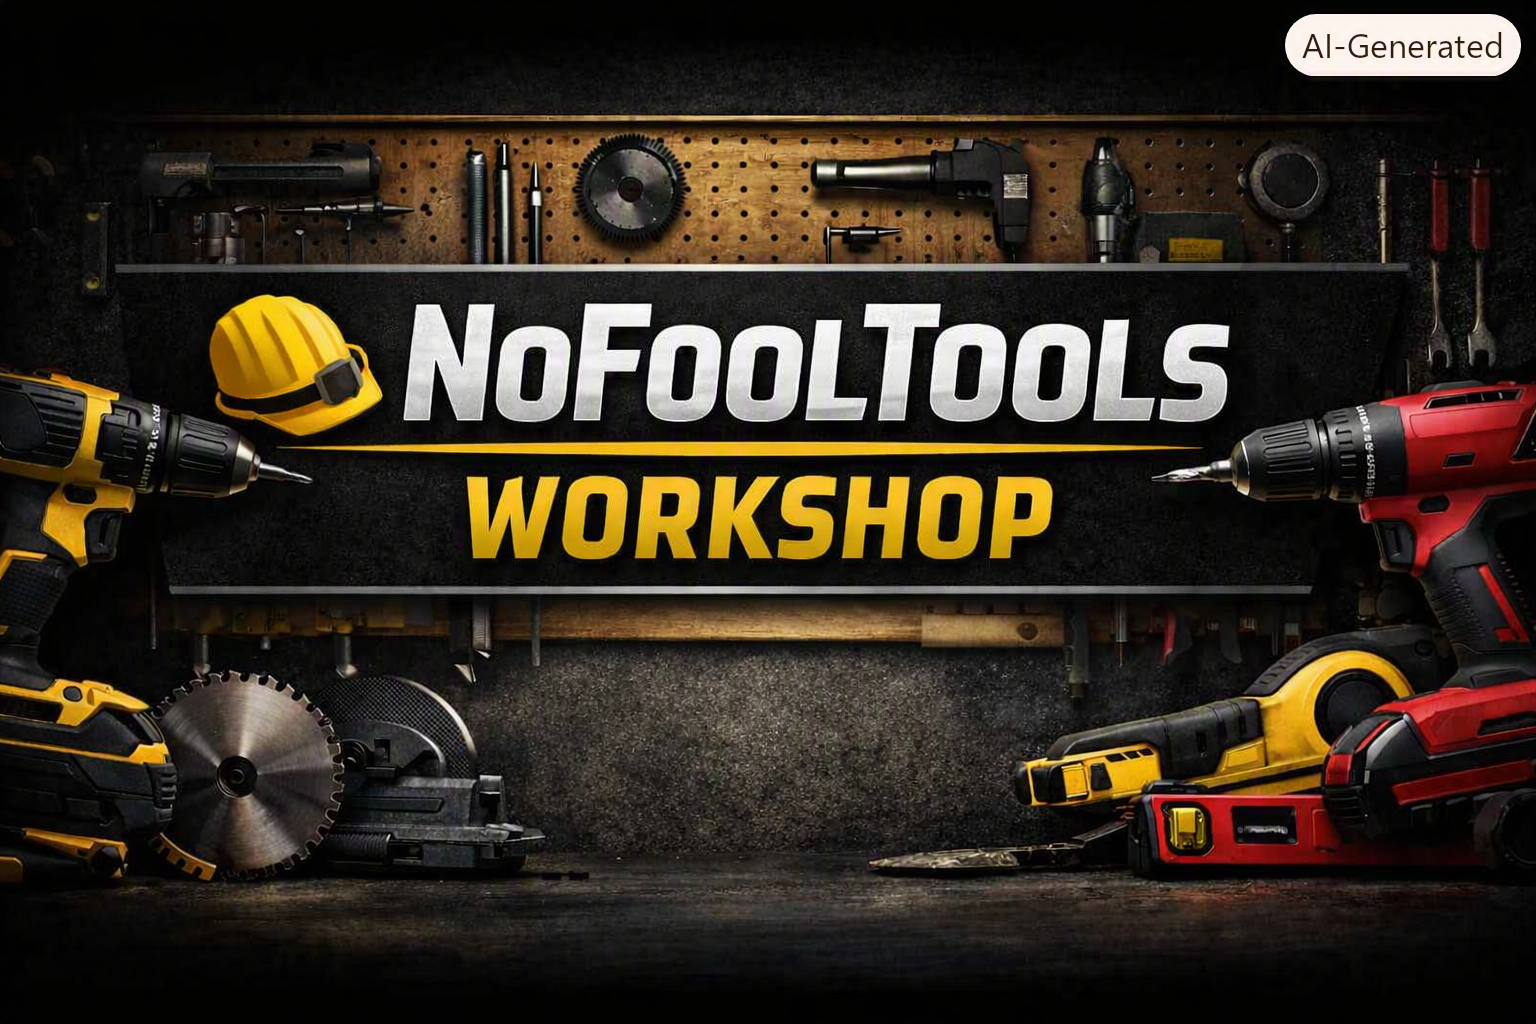
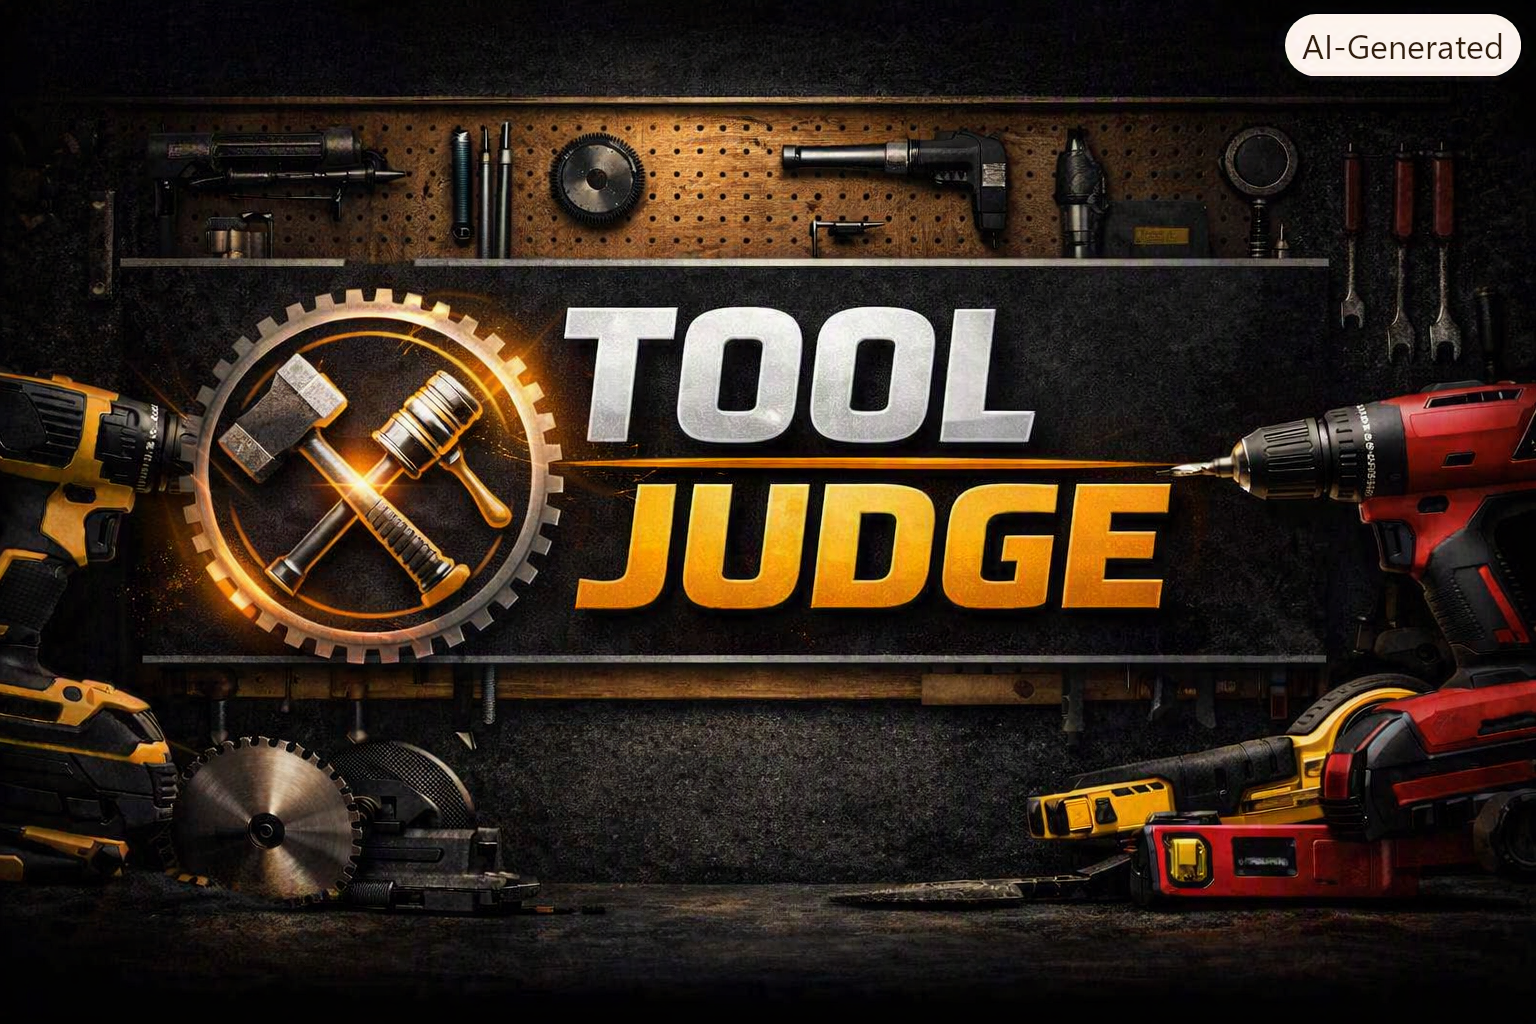
test

diff --git a/app/templates/public/affiliate.html b/app/templates/public/affiliate.html
@@ -5,23 +5,23 @@
     <h1 class="fw-bold mb-4">Amazon Affiliate Disclosure</h1>
 
     <p class="lead">
-        NoFoolTools participates in the Amazon Associates Program, an affiliate advertising program designed to provide a means for sites to earn advertising fees by linking to Amazon.
+        ToolJudge participates in the Amazon Associates Program, an affiliate advertising program designed to provide a means for sites to earn advertising fees by linking to Amazon.
     </p>
 
     <hr class="my-4">
 
     <h3 class="fw-bold mt-4">What This Means</h3>
     <p>
-        Some of the links on NoFoolTools are “affiliate links.” This means that if you click a link to a product and make a purchase, we may earn a small commission — at no extra cost to you.
+        Some of the links on ToolJudge are “affiliate links.” This means that if you click a link to a product and make a purchase, we may earn a small commission — at no extra cost to you.
     </p>
     <p>
-        These commissions help support the ongoing development of NoFoolTools, including tool testing, content creation, hosting costs, and improvements to the platform.
+        These commissions help support the ongoing development of ToolJudge, including tool testing, content creation, hosting costs, and improvements to the platform.
     </p>
 
     <h3 class="fw-bold mt-4">Our Commitment to Transparency</h3>
     <p>
         We only recommend tools, equipment, and products that we genuinely believe offer good value, strong performance, and reliability for tradespeople and DIY users.
-        Affiliate partnerships do not influence our reviews, comparisons, or buying guides — all opinions on NoFoolTools are based on real‑world performance, technical specifications, and honest evaluation.
+        Affiliate partnerships do not influence our reviews, comparisons, or buying guides — all opinions on ToolJudge are based on real‑world performance, technical specifications, and honest evaluation.
     </p>
 
     <h3 class="fw-bold mt-4">No Extra Cost to You</h3>
@@ -31,7 +31,7 @@
 
     <h3 class="fw-bold mt-4">Why We Use Affiliate Links</h3>
     <ul>
-        <li>To keep NoFoolTools free to use</li>
+        <li>To keep ToolJudge free to use</li>
         <li>To fund ongoing tool testing and content creation</li>
         <li>To support hosting, development, and maintenance costs</li>
         <li>To allow us to continue producing unbiased, high‑quality tool reviews</li>

diff --git a/app/templates/public/base.html b/app/templates/public/base.html
@@ -5,7 +5,7 @@
     <meta name="viewport" content="width=device-width, initial-scale=1">
 
     <!-- SEO Title -->
-    <title>{{ seo_title if seo_title else title if title else "NoFoolTools" }}</title>
+    <title>{{ seo_title if seo_title else title if title else "ToolJudge" }}</title>
 
     <!-- SEO Meta Tags -->
     <meta name="description"
@@ -47,7 +47,7 @@
     <nav class="navbar navbar-expand-lg navbar-dark bg-dark mb-4 rounded">
         <div class="container-fluid">
 
-            <a class="navbar-brand fw-bold" href="/">NoFoolTools</a>
+            <a class="navbar-brand fw-bold" href="/">ToolJudge</a>
 
             <button class="navbar-toggler" type="button" data-bs-toggle="collapse" data-bs-target="#mainNav">
                 <span class="navbar-toggler-icon"></span>
@@ -78,7 +78,7 @@
     <!-- FOOTER -->
     <footer class="bg-dark text-white text-center py-4 mt-5 rounded">
 
-        <p class="mb-1 fw-bold">NoFoolTools</p>
+        <p class="mb-1 fw-bold">ToolJudge</p>
         <p class="small text-muted">Honest tool reviews, buying guides & DIY projects — No fluff.</p>
 
         <!-- Footer Links -->
@@ -99,7 +99,7 @@
             <a href="#" class="text-white"><i class="bi bi-twitter"></i></a>
         </div>
 
-        <p class="small text-muted mt-3">NoFoolTools — All Rights Reserved</p>
+        <p class="small text-muted mt-3">ToolJudge — All Rights Reserved</p>
     </footer>
 
     <script src="https://cdn.jsdelivr.net/npm/bootstrap@5.3.0/dist/js/bootstrap.bundle.min.js"></script>

diff --git a/app/templates/public/terms.html b/app/templates/public/terms.html
@@ -5,22 +5,22 @@
     <h1 class="fw-bold mb-4">Terms & Conditions</h1>
 
     <p class="lead">
-        By using NoFoolTools, you agree to the following terms and conditions.
+        By using ToolJudge, you agree to the following terms and conditions.
     </p>
 
     <h3 class="fw-bold mt-4">Use of Content</h3>
     <p>
-        All content on NoFoolTools is provided for informational purposes only. We do not guarantee accuracy, completeness, or suitability for any specific purpose.
+        All content on ToolJudge is provided for informational purposes only. We do not guarantee accuracy, completeness, or suitability for any specific purpose.
     </p>
 
     <h3 class="fw-bold mt-4">Affiliate Links</h3>
     <p>
-        NoFoolTools participates in the Amazon Associates Programme. We may earn commissions from qualifying purchases.
+        ToolJudge participates in the Amazon Associates Programme. We may earn commissions from qualifying purchases.
     </p>
 
     <h3 class="fw-bold mt-4">Limitation of Liability</h3>
     <p>
-        NoFoolTools is not responsible for any damages, losses, or injuries resulting from the use of tools, equipment, or advice provided on this site.
+        ToolJudge is not responsible for any damages, losses, or injuries resulting from the use of tools, equipment, or advice provided on this site.
     </p>
 
     <h3 class="fw-bold mt-4">External Links</h3>

diff --git a/app/templates/public/about.html b/app/templates/public/about.html
@@ -2,10 +2,10 @@
 {% block content %}
 
 <div class="container my-5">
-    <h1 class="fw-bold mb-4">About NoFoolTools</h1>
+    <h1 class="fw-bold mb-4">About ToolJudge</h1>
 
     <p class="lead">
-        NoFoolTools is a straight‑talking tool review and DIY guidance platform built for tradespeople, homeowners, and anyone who wants honest, practical advice about tools and hardware — no fluff, no nonsense.
+        ToolJudge is a straight‑talking tool review and DIY guidance platform built for tradespeople, homeowners, and anyone who wants honest, practical advice about tools and hardware — no fluff, no nonsense.
     </p>
 
     <p>
@@ -23,7 +23,7 @@
 
     <h3 class="fw-bold mt-4">Our Approach</h3>
     <p>
-        NoFoolTools uses AI‑assisted analysis to evaluate tools based on specifications, performance, ergonomics, durability, and real user feedback. All recommendations are independent — affiliate partnerships never influence our opinions or scoring.
+        ToolJudge uses AI‑assisted analysis to evaluate tools based on specifications, performance, ergonomics, durability, and real user feedback. All recommendations are independent — affiliate partnerships never influence our opinions or scoring.
     </p>
 
     <h3 class="fw-bold mt-4">Our Goal</h3>

diff --git a/app/templates/public/contact.html b/app/templates/public/contact.html
@@ -2,14 +2,14 @@
 {% block content %}
 
 <div class="container my-5">
-    <h1 class="fw-bold mb-4">Contact NoFoolTools</h1>
+    <h1 class="fw-bold mb-4">Contact ToolJudge</h1>
 
     <p class="lead">
         Got a question, suggestion, or business enquiry? We’d love to hear from you — no fluff, no nonsense.
     </p>
 
     <h3 class="fw-bold mt-4">General Enquiries</h3>
-    <p>Email: <strong>support@nofooltools.com</strong></p>
+    <p>Email: <strong>support@ToolJudge.com</strong></p>
 
     <h3 class="fw-bold mt-4">Feedback & Corrections</h3>
     <p>
@@ -17,7 +17,7 @@
     </p>
 
     <h3 class="fw-bold mt-4">Business & Partnership Enquiries</h3>
-    <p>Email: <strong>partners@nofooltools.com</strong></p>
+    <p>Email: <strong>partners@ToolJudge.com</strong></p>
 
     <h3 class="fw-bold mt-4">Response Time</h3>
     <p>

diff --git a/app/templates/public/privacy.html b/app/templates/public/privacy.html
@@ -24,7 +24,7 @@
 
     <h3 class="fw-bold mt-4">Cookies</h3>
     <p>
-        NoFoolTools uses cookies for analytics and basic site functionality. You can disable cookies in your browser settings at any time.
+        ToolJudge uses cookies for analytics and basic site functionality. You can disable cookies in your browser settings at any time.
     </p>
 
     <h3 class="fw-bold mt-4">Third-Party Services</h3>
@@ -46,7 +46,7 @@
     </ul>
 
     <h3 class="fw-bold mt-4">Contact</h3>
-    <p>Email: <strong>privacy@nofooltools.com</strong></p>
+    <p>Email: <strong>privacy@ToolJudge.com</strong></p>
 
     <p class="mt-4 text-muted">Last updated: {{ year }}</p>
 </div>

diff --git a/app/templates/public/article.html b/app/templates/public/article.html
@@ -100,7 +100,7 @@
 {% if article.affiliate_link %}
 <div class="affiliate-box premium-affiliate-box">
     <h5 class="fw-bold">Recommended Purchase</h5>
-    <p>Get the best price for this tool using our trusted affiliate link below — NoFoolTools only recommends products we genuinely rate.</p>
+    <p>Get the best price for this tool using our trusted affiliate link below — ToolJudge only recommends products we genuinely rate.</p>
     <a href="{{ article.affiliate_link }}" 
        class="btn btn-warning btn-lg premium-cta-btn"
        target="_blank"

diff --git a/app/templates/admin/layout.html b/app/templates/admin/layout.html
@@ -3,7 +3,7 @@
 <head>
     <meta charset="UTF-8">
     <meta name="viewport" content="width=device-width, initial-scale=1">
-    <title>{{ title if title else "Admin – NoFoolTools" }}</title>
+    <title>{{ title if title else "Admin – ToolJudge" }}</title>
 
     <link rel="stylesheet" href="https://cdn.jsdelivr.net/npm/bootstrap@5.3.0/dist/css/bootstrap.min.css">
 

diff --git a/app/templates/public/search.html b/app/templates/public/search.html
@@ -9,7 +9,7 @@
 
 {% if results|length == 0 %}
     <div class="alert alert-warning">
-        No results found. Try another search — NoFoolTools is always expanding, so check back soon.
+        No results found. Try another search — ToolJudge is always expanding, so check back soon.
     </div>
 {% else %}
     <div class="row g-4">

diff --git a/app/templates/public/cookies.html b/app/templates/public/cookies.html
@@ -5,7 +5,7 @@
     <h1 class="fw-bold mb-4">Cookie Policy</h1>
 
     <p class="lead">
-        This Cookie Policy explains how NoFoolTools uses cookies and similar technologies.
+        This Cookie Policy explains how ToolJudge uses cookies and similar technologies.
     </p>
 
     <h3 class="fw-bold mt-4">What Are Cookies?</h3>

diff --git a/app/templates/public/index.html b/app/templates/public/index.html
@@ -12,7 +12,7 @@
 
 <!-- HERO SECTION -->
 <div class="hero text-center mb-5">
-    <h1 class="fw-bold">NoFoolTools</h1>
+    <h1 class="fw-bold">ToolJudge</h1>
     <p class="lead mt-3">
         Honest tool reviews, buying guides, comparisons and DIY advice — no fluff, no nonsense.
     </p>

diff --git a/app/routes/public.py b/app/routes/public.py
@@ -21,8 +21,8 @@ def index():
         categories=categories,
         articles=articles,
         featured_articles=featured_articles,
-        title="NoFoolTools — Honest Tool Reviews & Guides",
-        seo_title="NoFoolTools — Honest Tool Reviews & Guides",
+        title="ToolJudge — Honest Tool Reviews & Guides",
+        seo_title="ToolJudge — Honest Tool Reviews & Guides",
         seo_description="Honest tool reviews, comparisons, buying guides and DIY projects — no fluff, no nonsense.",
         seo_keywords="tool reviews, power tools, DIY guides, buying guides, honest reviews"
     )
@@ -92,8 +92,8 @@ def category_page(slug):
     articles = pagination.items
 
     seo_title = f"{category.name} — Reviews & Buying Guides"
-    seo_description = f"Explore honest reviews, comparisons and buying guides for {category.name.lower()} — powered by NoFoolTools."
-    seo_keywords = f"{category.slug}, {category.name}, tool reviews, DIY guides, NoFoolTools"
+    seo_description = f"Explore honest reviews, comparisons and buying guides for {category.name.lower()} — powered by ToolJudge."
+    seo_keywords = f"{category.slug}, {category.name}, tool reviews, DIY guides, ToolJudge"
 
     return render_template(
         "public/category.html",
@@ -114,20 +114,20 @@ def category_page(slug):
 def about():
     return render_template(
         "public/about.html",
-        title="About NoFoolTools",
-        seo_title="About NoFoolTools",
-        seo_description="Learn about NoFoolTools — honest tool reviews, comparisons and DIY guides.",
-        seo_keywords="about nofooltools"
+        title="About ToolJudge",
+        seo_title="About ToolJudge",
+        seo_description="Learn about ToolJudge — honest tool reviews, comparisons and DIY guides.",
+        seo_keywords="about ToolJudge"
     )
 
 @public_bp.route("/contact")
 def contact():
     return render_template(
         "public/contact.html",
-        title="Contact NoFoolTools",
-        seo_title="Contact NoFoolTools",
-        seo_description="Get in touch with NoFoolTools for enquiries, feedback or partnership opportunities.",
-        seo_keywords="contact nofooltools"
+        title="Contact ToolJudge",
+        seo_title="Contact ToolJudge",
+        seo_description="Get in touch with ToolJudge for enquiries, feedback or partnership opportunities.",
+        seo_keywords="contact ToolJudge"
     )
 
 @public_bp.route("/privacy")
@@ -135,9 +135,9 @@ def privacy():
     return render_template(
         "public/privacy.html",
         title="Privacy Policy",
-        seo_title="NoFoolTools Privacy Policy",
-        seo_description="Read the NoFoolTools privacy policy and learn how we handle user data responsibly.",
-        seo_keywords="privacy policy, gdpr, nofooltools"
+        seo_title="ToolJudge Privacy Policy",
+        seo_description="Read the ToolJudge privacy policy and learn how we handle user data responsibly.",
+        seo_keywords="privacy policy, gdpr, ToolJudge"
     )
 
 @public_bp.route("/terms")
@@ -145,9 +145,9 @@ def terms():
     return render_template(
         "public/terms.html",
         title="Terms & Conditions",
-        seo_title="NoFoolTools Terms & Conditions",
-        seo_description="Review the NoFoolTools terms and conditions for using our website and content.",
-        seo_keywords="terms and conditions, nofooltools"
+        seo_title="ToolJudge Terms & Conditions",
+        seo_description="Review the ToolJudge terms and conditions for using our website and content.",
+        seo_keywords="terms and conditions, ToolJudge"
     )
 
 @public_bp.route("/cookies")
@@ -155,9 +155,9 @@ def cookies():
     return render_template(
         "public/cookies.html",
         title="Cookie Policy",
-        seo_title="NoFoolTools Cookie Policy",
-        seo_description="Learn how NoFoolTools uses cookies for analytics and site functionality.",
-        seo_keywords="cookie policy, cookies, nofooltools"
+        seo_title="ToolJudge Cookie Policy",
+        seo_description="Learn how ToolJudge uses cookies for analytics and site functionality.",
+        seo_keywords="cookie policy, cookies, ToolJudge"
     )
 
 @public_bp.route("/affiliate-disclosure")
@@ -165,9 +165,9 @@ def affiliate():
     return render_template(
         "public/affiliate.html",
         title="Affiliate Disclosure",
-        seo_title="NoFoolTools Affiliate Disclosure",
-        seo_description="NoFoolTools participates in affiliate programmes and may earn commissions from qualifying purchases.",
-        seo_keywords="affiliate disclosure, amazon associates, nofooltools"
+        seo_title="ToolJudge Affiliate Disclosure",
+        seo_description="ToolJudge participates in affiliate programmes and may earn commissions from qualifying purchases.",
+        seo_keywords="affiliate disclosure, amazon associates, ToolJudge"
     )
 
 # ---------------------------------------------------------
@@ -203,7 +203,7 @@ def search():
         q=q,
         title=f"Search results for '{q}'",
         seo_title=f"Search results for '{q}'",
-        seo_description=f"NoFoolTools search results for '{q}'.",
+        seo_description=f"ToolJudge search results for '{q}'.",
         seo_keywords=f"tool search, {q}"
     )
 
@@ -229,7 +229,7 @@ def sitemap():
 
     for url, freq, priority in static_urls:
         pages.append({
-            "loc": f"https://nofooltools.com{url}",
+            "loc": f"https://ToolJudge.com{url}",
             "lastmod": datetime.date.today().isoformat(),
             "changefreq": freq,
             "priority": priority
@@ -238,7 +238,7 @@ def sitemap():
     articles = Article.query.all()
     for a in articles:
         pages.append({
-            "loc": f"https://nofooltools.com/article/{a.slug}",
+            "loc": f"https://ToolJudge.com/article/{a.slug}",
             "lastmod": a.created_at.date().isoformat(),
             "changefreq": "monthly",
             "priority": "0.8"
@@ -274,6 +274,6 @@ Allow: /static/css/
 Allow: /static/js/
 Allow: /static/images/
 
-Sitemap: https://nofooltools.com/sitemap.xml
+Sitemap: https://ToolJudge.com/sitemap.xml
 """
     return Response(content, mimetype="text/plain")
